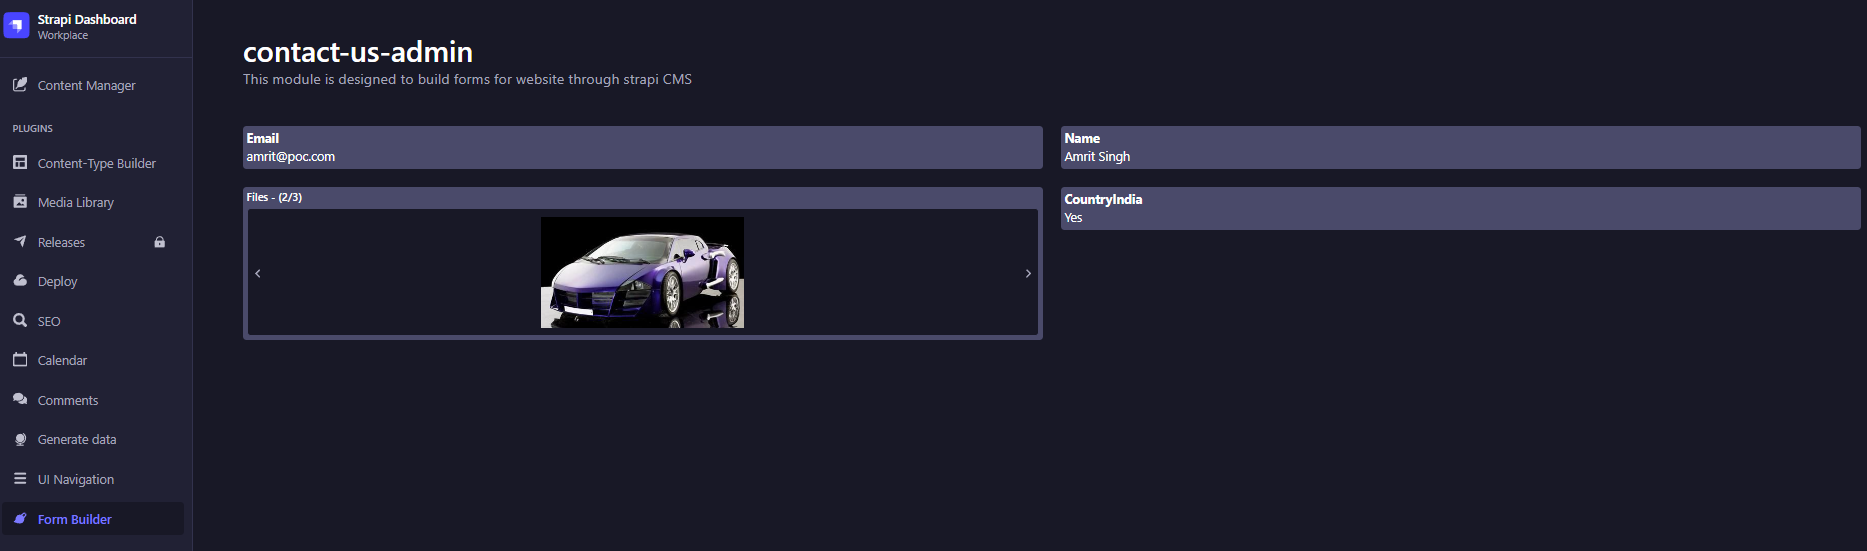
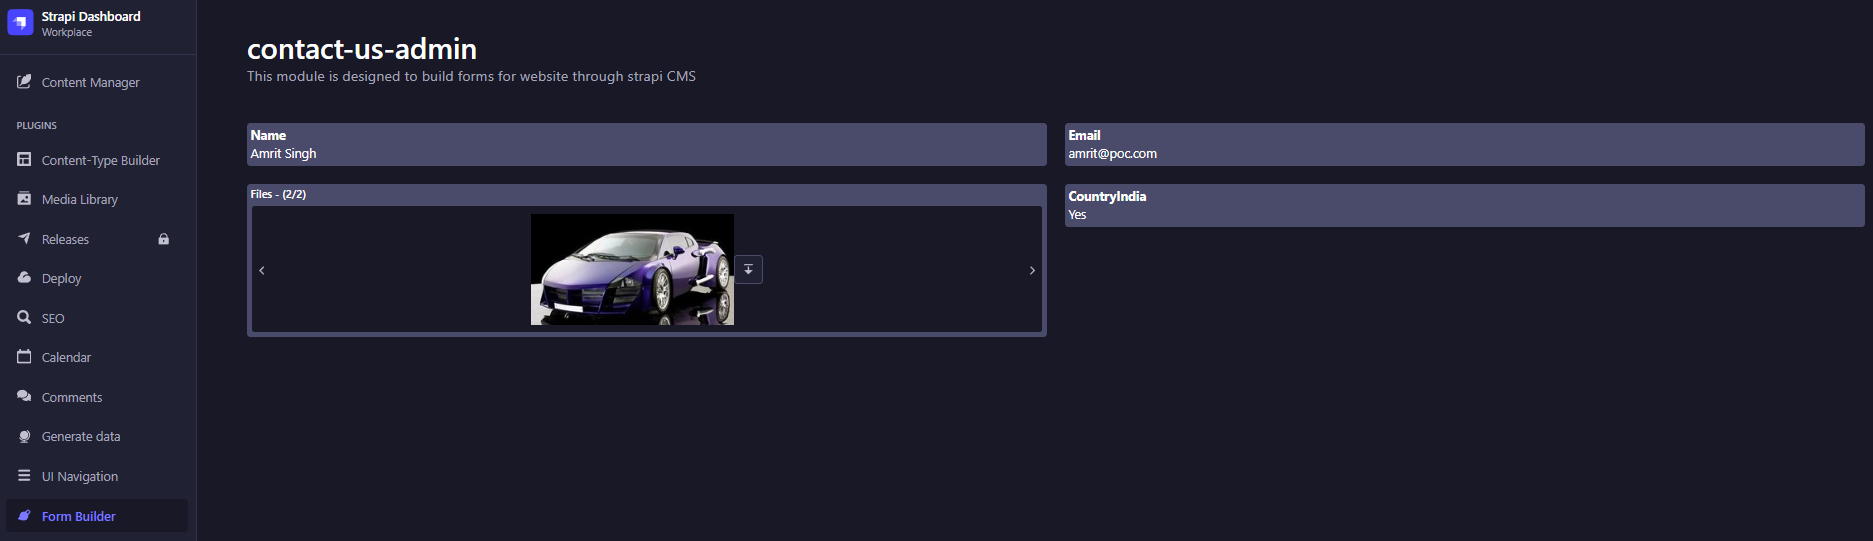
updated readme

diff --git a/README.md b/README.md
@@ -15,6 +15,21 @@ yarn add strapi-v4-form-builder
 npm i strapi-v4-form-builder
 ```
 
+ - Add a new environment varaible CSR_SECRET_KEY in your strapi project. This will be a random hash string.
+ - .env file should be something like below with `CSR_SECRET_KEY` added.
+```
+# Database
+DATABASE_CLIENT=postgres
+DATABASE_HOST=localhost
+DATABASE_PORT=5432
+DATABASE_NAME=imiDev
+DATABASE_USERNAME=postgres
+DATABASE_PASSWORD=postgres
+DATABASE_SSL=false
+
+CSR_SECRET_KEY="something#secret+123"
+```
+
 ## Features Default
 
 ### Form Builder
@@ -22,7 +37,8 @@ npm i strapi-v4-form-builder
 - Create custom form fields from the Content Manager
 - Use the Form-Type collection to defince the form fields and form structure
 - Submissions can be viewed from the plugin's homepage.
-- Based on each Form-Type its corresponding submissions can be viewed  
+- Based on each Form-Type its corresponding submissions can be viewed.
+- Submitted attachments can be downloaded by CMS admin.
 
 ### Export
 
